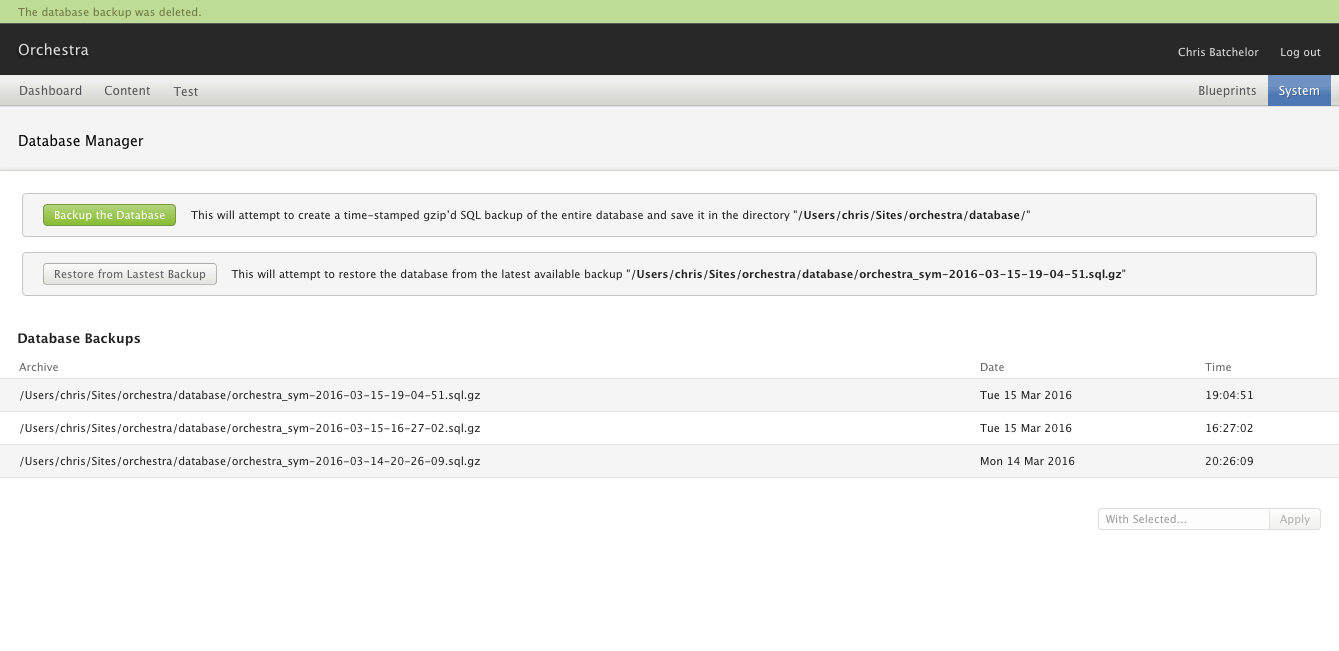
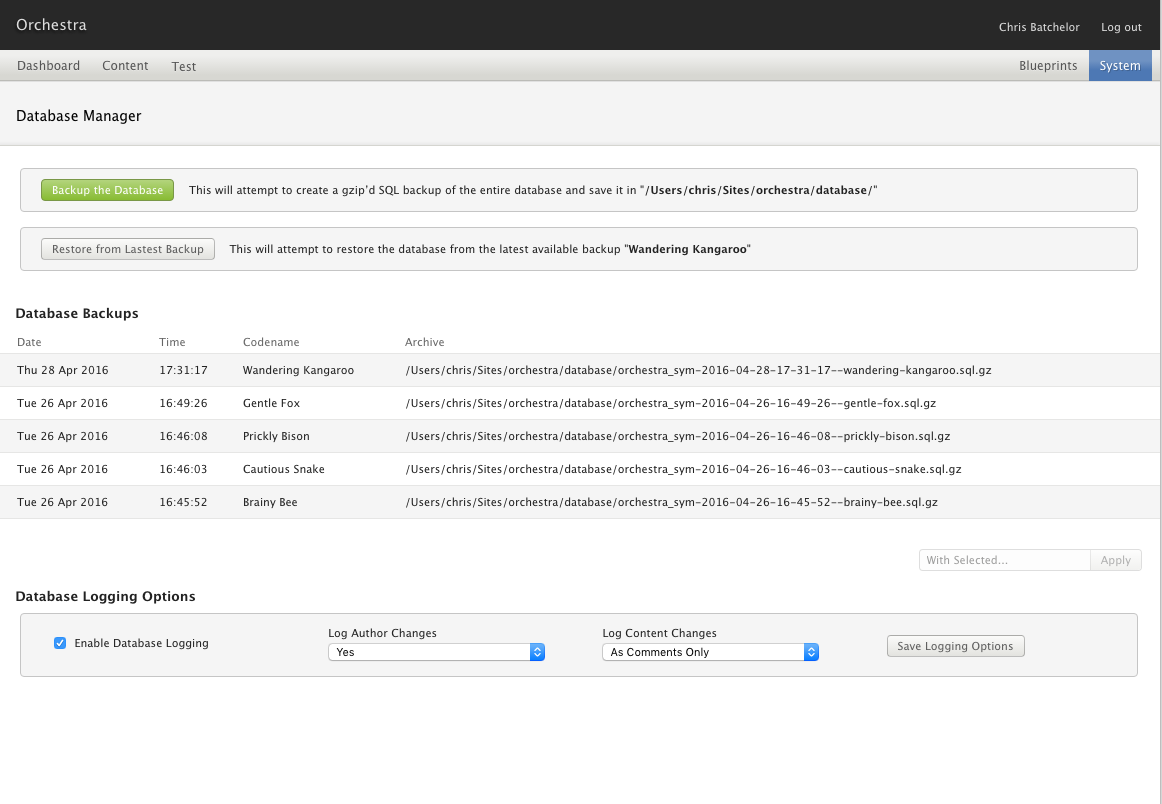
Add Database Logger Options UI

diff --git a/assets/db_manager.css b/assets/db_manager.css
@@ -17,4 +17,29 @@
 .db_manager__subheading {
     font-size: 1.2em;
     margin-left: 1.3em;
+    margin-bottom: 0.5em;
+}
+
+.db_manager__options-bar {
+    margin-top: 1em;
+    padding-left: 3em;
+}
+
+.db_manager__options-bar label {
+    display: inline-block;
+    margin-right: 5%;
+    -webkit-user-select: none;
+    -moz-user-select: none; 
+    user-select: none;
+    vertical-align: middle;
+    width: 20%;
+}
+
+.db_manager__options-bar label:first-child {
+    margin-top: 0.25em;
+}
+
+.db_manager__options-bar button {
+    position: relative;
+    top: -0.25em;
 }

diff --git a/content/content.index.php b/content/content.index.php
@@ -33,6 +33,7 @@ class contentExtensionDb_managerIndex extends contentBlueprintsPages {
         $container->appendChild($this->generateBackupFrame());
         $container->appendChild($this->generateRestoreFrame());
         $container->appendChild($this->generateArchiveTable());
+        $container->appendChild($this->generateTrackerOptions());
 
         $this->Form->appendChild($container);
     }
@@ -41,7 +42,7 @@ class contentExtensionDb_managerIndex extends contentBlueprintsPages {
         $backup_frame = new XMLElement('span', NULL, array('class' => 'frame db_manager__frame'));
         $backup_button = new XMLElement('button', __('Backup the Database'));
         $backup_button->setAttributeArray(array('name' => 'action[db-manager-backup]', 'class' => 'button create confirm', 'title' => __('Create a backup of the current database'), 'accesskey' => 'b', 'data-message' => __('Are you sure you want to BACKUP the current database?')));
-        $backup_help = new XMLElement('span', 'This will attempt to create a time-stamped gzip&rsquo;d SQL backup of the entire database and save it in the directory "<strong>' . DbBackup::directory() . '</strong>"', ['class' => 'db_manager__button_help']);
+        $backup_help = new XMLElement('span', 'This will attempt to create a gzip&rsquo;d SQL backup of the entire database and save it in "<strong>' . DbBackup::directory() . '</strong>"', ['class' => 'db_manager__button_help']);
         $backup_frame->appendChildArray([$backup_button, $backup_help]);
         return $backup_frame;
     }
@@ -51,7 +52,7 @@ class contentExtensionDb_managerIndex extends contentBlueprintsPages {
         if ($latest) {
             $restore_button = new XMLElement('button', __('Restore from Lastest Backup'));
             $restore_button->setAttributeArray(array('name' => 'action[db-manager-restore]', 'class' => 'button delete confirm', 'title' => __('Restore the database from latest backup'), 'accesskey' => 'b', 'data-message' => __('Are you sure you want to RESTORE the database? This will OVERWRITE your current database! All data in the current database will be LOST. Think VERY CAREFULLY before proceeding!')));
-            $restore_help = new XMLElement('span', 'This will attempt to restore the database from the latest available backup "<strong>' . BackupManager::getLatest()->file() . '</strong>"', ['class' => 'db_manager__button_help']);
+            $restore_help = new XMLElement('span', 'This will attempt to restore the database from the latest available backup "<strong>' . BackupManager::getLatest()->getCodeName() . '</strong>"', ['class' => 'db_manager__button_help']);
         }
         else {
             $restore_button = new XMLElement('button', __('Restore from Lastest Backup'), ['class' => 'button disabled']);
@@ -66,9 +67,10 @@ class contentExtensionDb_managerIndex extends contentBlueprintsPages {
         $backups = array_reverse(BackupManager::getBackupList());
 
         $thead = array(
-            [__('Archive'), 'col'],
             [__('Date'), 'col'],
-            [__('Time'), 'col']
+            [__('Time'), 'col'],
+            [__('Codename'), 'col'],
+            [__('Archive'), 'col'],
         );
         $tbody = array();
 
@@ -84,10 +86,11 @@ class contentExtensionDb_managerIndex extends contentBlueprintsPages {
 
                 $col_name = Widget::TableData($current->filename());
                 $col_name->appendChild(Widget::Input("selected[]", "{$current->filename()}", 'checkbox'));
+                $col_codename = Widget::TableData($current->getCodeName());
                 $col_date = Widget::TableData(date_format($current->getDate(), 'D j M Y'));
                 $col_time = Widget::TableData(date_format($current->getDate(), 'H:i:s'));
 
-                $tbody[] = Widget::TableRow([$col_name, $col_date, $col_time], null);
+                $tbody[] = Widget::TableRow([$col_date, $col_time, $col_codename, $col_name], null);
             }
         }
 
@@ -117,9 +120,70 @@ class contentExtensionDb_managerIndex extends contentBlueprintsPages {
         return $container;
     }
 
+    public function generateTrackerOptions() {
+        $log_enabled = Symphony::Configuration()->get('enable_logging', 'db_manager');
+        $log_authors = Symphony::Configuration()->get('log_authors', 'db_manager');
+        $log_content = Symphony::Configuration()->get('log_content', 'db_manager');
+
+        $heading = new XMLElement('h3', 'Database Logging Options', ['class' => 'db_manager__subheading']);
+
+        $options_bar = new XMLElement('div', null, ['class' => 'db_manager__options-bar']);
+
+        $options_bar->appendChild(Widget::Checkbox(
+                'options[log_enabled]',
+                $log_enabled,
+                __('Enable Database Logging')
+            )
+        );
+
+        if ($log_enabled == 'yes') {
+            $options_bar->appendChild(Widget::Label(__('Log Author Changes'),
+                Widget::Select(
+                    'options[log_authors]',
+                    array(
+                        ['no', ($log_authors == 'no' ? TRUE : FALSE), 'No'],
+                        ['comment', ($log_authors == 'comment' ? TRUE : FALSE), 'As Comments Only'],
+                        ['yes', ($log_authors == 'yes' ? TRUE : FALSE), 'Yes'],
+                    )
+                )
+            ));
+
+            $options_bar->appendChild(Widget::Label(__('Log Content Changes'),
+                Widget::Select(
+                    'options[log_content]',
+                    array(
+                        ['no', ($log_content == 'no' ? TRUE : FALSE), 'No'],
+                        ['comment', ($log_content == 'comment' ? TRUE : FALSE), 'As Comments Only'],
+                        ['yes', ($log_content == 'yes' ? TRUE : FALSE), 'Yes'],
+                    )
+                )
+            ));
+        } else {
+            $options_bar->appendChild(Widget::Input('options[log_authors]', $log_authors, 'hidden'));
+            $options_bar->appendChild(Widget::Input('options[log_content]', $log_content, 'hidden'));
+        }
+
+        $save_button = new XMLElement('button', __('Save Logging Options'));
+        $save_button->setAttributeArray(array('name' => 'action[db-manager-save-options]', 'class' => 'button confirm', 'title' => __('Create a backup of the current database'), 'accesskey' => 's', 'data-message' => __('Are you sure you want to save the new logging options?')));
+        $options_bar->appendChild($save_button);
+
+        $options_frame = new XMLElement('div', null, ['class' => 'frame db_manager__frame']);
+        $options_frame->appendChildArray([$options_bar]);
+
+        $container = new XMLElement('div', null, ['class' => 'db_manager__options']);
+        $container->appendChildArray([$heading, $options_frame]);
+
+        return $container;
+    }
+
     public function __actionIndex()
     {
-        if (isset($_POST['action']['db-manager-backup'])){
+        if(isset($_POST['action']['db-manager-save-options'])) {
+            $this->saveOptions();
+            return;
+        }
+
+        if (isset($_POST['action']['db-manager-backup'])) {
             $this->backupAction();
             return;
         }
@@ -169,6 +233,13 @@ class contentExtensionDb_managerIndex extends contentBlueprintsPages {
             $this->restoreAction($chosen);
             return;
         }
+    }
+
+    private function saveOptions() {
+        Symphony::Configuration()->set('enable_logging', $_POST['options']['log_enabled'], 'db_manager');
+        Symphony::Configuration()->set('log_authors', $_POST['options']['log_authors'], 'db_manager');
+        Symphony::Configuration()->set('log_content', $_POST['options']['log_content'], 'db_manager');
+        Symphony::Configuration()->write();
     }
 
     private function backupAction() {

diff --git a/lib/class.querylog.php b/lib/class.querylog.php
@@ -24,25 +24,25 @@ class QueryLog {
         // only structural changes, no SELECT statements
         if (!preg_match('/^(insert|update|delete|create|drop|alter|rename)/i', $query)) return;
 
-        // un-tracked tables (sessions, cache, tracker extension)
+        // un-logged tables (sessions, cache, tracker extension)
         if (preg_match("/{$tbl_prefix}(cache|forgotpass|sessions|tracker_activity)/i", $query)) return;
 
-        // track, or not, authors
+        // log, or not, authors
         if (preg_match("/{$tbl_prefix}(authors)/i", $query)) {
-            if (Symphony::Configuration()->get('track_authors', 'db_manager') == 'no') return;
-            // always ignore 'last seen' tracking since it's queried on every admin page load
+            if (Symphony::Configuration()->get('log_authors', 'db_manager') == 'no') return;
+            // always ignore 'last seen' loging since it's queried on every admin page load
             if (preg_match("/^UPDATE {$tbl_prefix}authors SET \`last_seen\`/", trim($query))) return; 
-            // include as comments instead of ignoring completely if track_authors=comment enabled
-            if (Symphony::Configuration()->get('track_authors', 'db_manager') == 'comment') {
+            // include as comments instead of ignoring completely if log_authors=comment enabled
+            if (Symphony::Configuration()->get('log_authors', 'db_manager') == 'comment') {
                 $query = '-- ' . $query; // commentify
             }
         }
 
         // content updates in tbl_entries (includes tbl_entries_fields_*)
         if (preg_match('/^(insert|delete|update)/i', $query) && preg_match("/({$tbl_prefix}entries)/i", $query)) {
-            if (Symphony::Configuration()->get('track_content', 'db_manager') == 'no') return;
-            // include as comments instead of ignoring completely if track_content enabled
-            if (Symphony::Configuration()->get('track_content', 'db_manager') == 'comment') {
+            if (Symphony::Configuration()->get('log_content', 'db_manager') == 'no') return;
+            // include as comments instead of ignoring completely if log_content enabled
+            if (Symphony::Configuration()->get('log_content', 'db_manager') == 'comment') {
                 $query = '-- ' . $query; // commentify
             }
         }

diff --git a/extension.driver.php b/extension.driver.php
@@ -33,8 +33,8 @@ class Extension_db_manager extends Extension {
         Symphony::Configuration()->set('mysql_bin', '/usr/bin/mysqldump', 'db_manager');
         Symphony::Configuration()->set('gunzip_bin', '/bin/gunzip', 'db_manager');
         Symphony::Configuration()->set('enable_logging', 'yes', 'db_manager');
-        Symphony::Configuration()->set('track_authors', 'comment', 'db_manager');
-        Symphony::Configuration()->set('track_content', 'comment', 'db_manager');
+        Symphony::Configuration()->set('log_authors', 'comment', 'db_manager');
+        Symphony::Configuration()->set('log_content', 'comment', 'db_manager');
         Symphony::Configuration()->write();
         return true;
     }
@@ -42,8 +42,8 @@ class Extension_db_manager extends Extension {
     public function update($previous_version = false) {
         if(version_compare($previousVersion, '0.5.0', '<')) {
             Symphony::Configuration()->set('enable_logging', 'yes', 'db_manager');
-            Symphony::Configuration()->set('track_authors', 'comment', 'db_manager');
-            Symphony::Configuration()->set('track_content', 'comment', 'db_manager');
+            Symphony::Configuration()->set('log_authors', 'comment', 'db_manager');
+            Symphony::Configuration()->set('log_content', 'comment', 'db_manager');
             Symphony::Configuration()->write();
         }
         return true;

diff --git a/lib/class.dbbackup.php b/lib/class.dbbackup.php
@@ -177,6 +177,14 @@ class DbBackup {
         return $this->executed_command;
     }
 
+    // Return the human friendly codename assigned to the backup
+    public function getCodeName() {
+        if (!$this->filename()) return false;
+        $matches = [];
+        preg_match('/--([a-z]+)-([a-z]+).sql.gz$/', $this->filename(), $matches);
+        return ucfirst($matches[1]) . ' ' . ucfirst($matches[2]);
+    }
+
     // Return a date object of the backups creation time
     public function getDate() {
         $db_name = Symphony::Configuration()->get('db', 'database');
